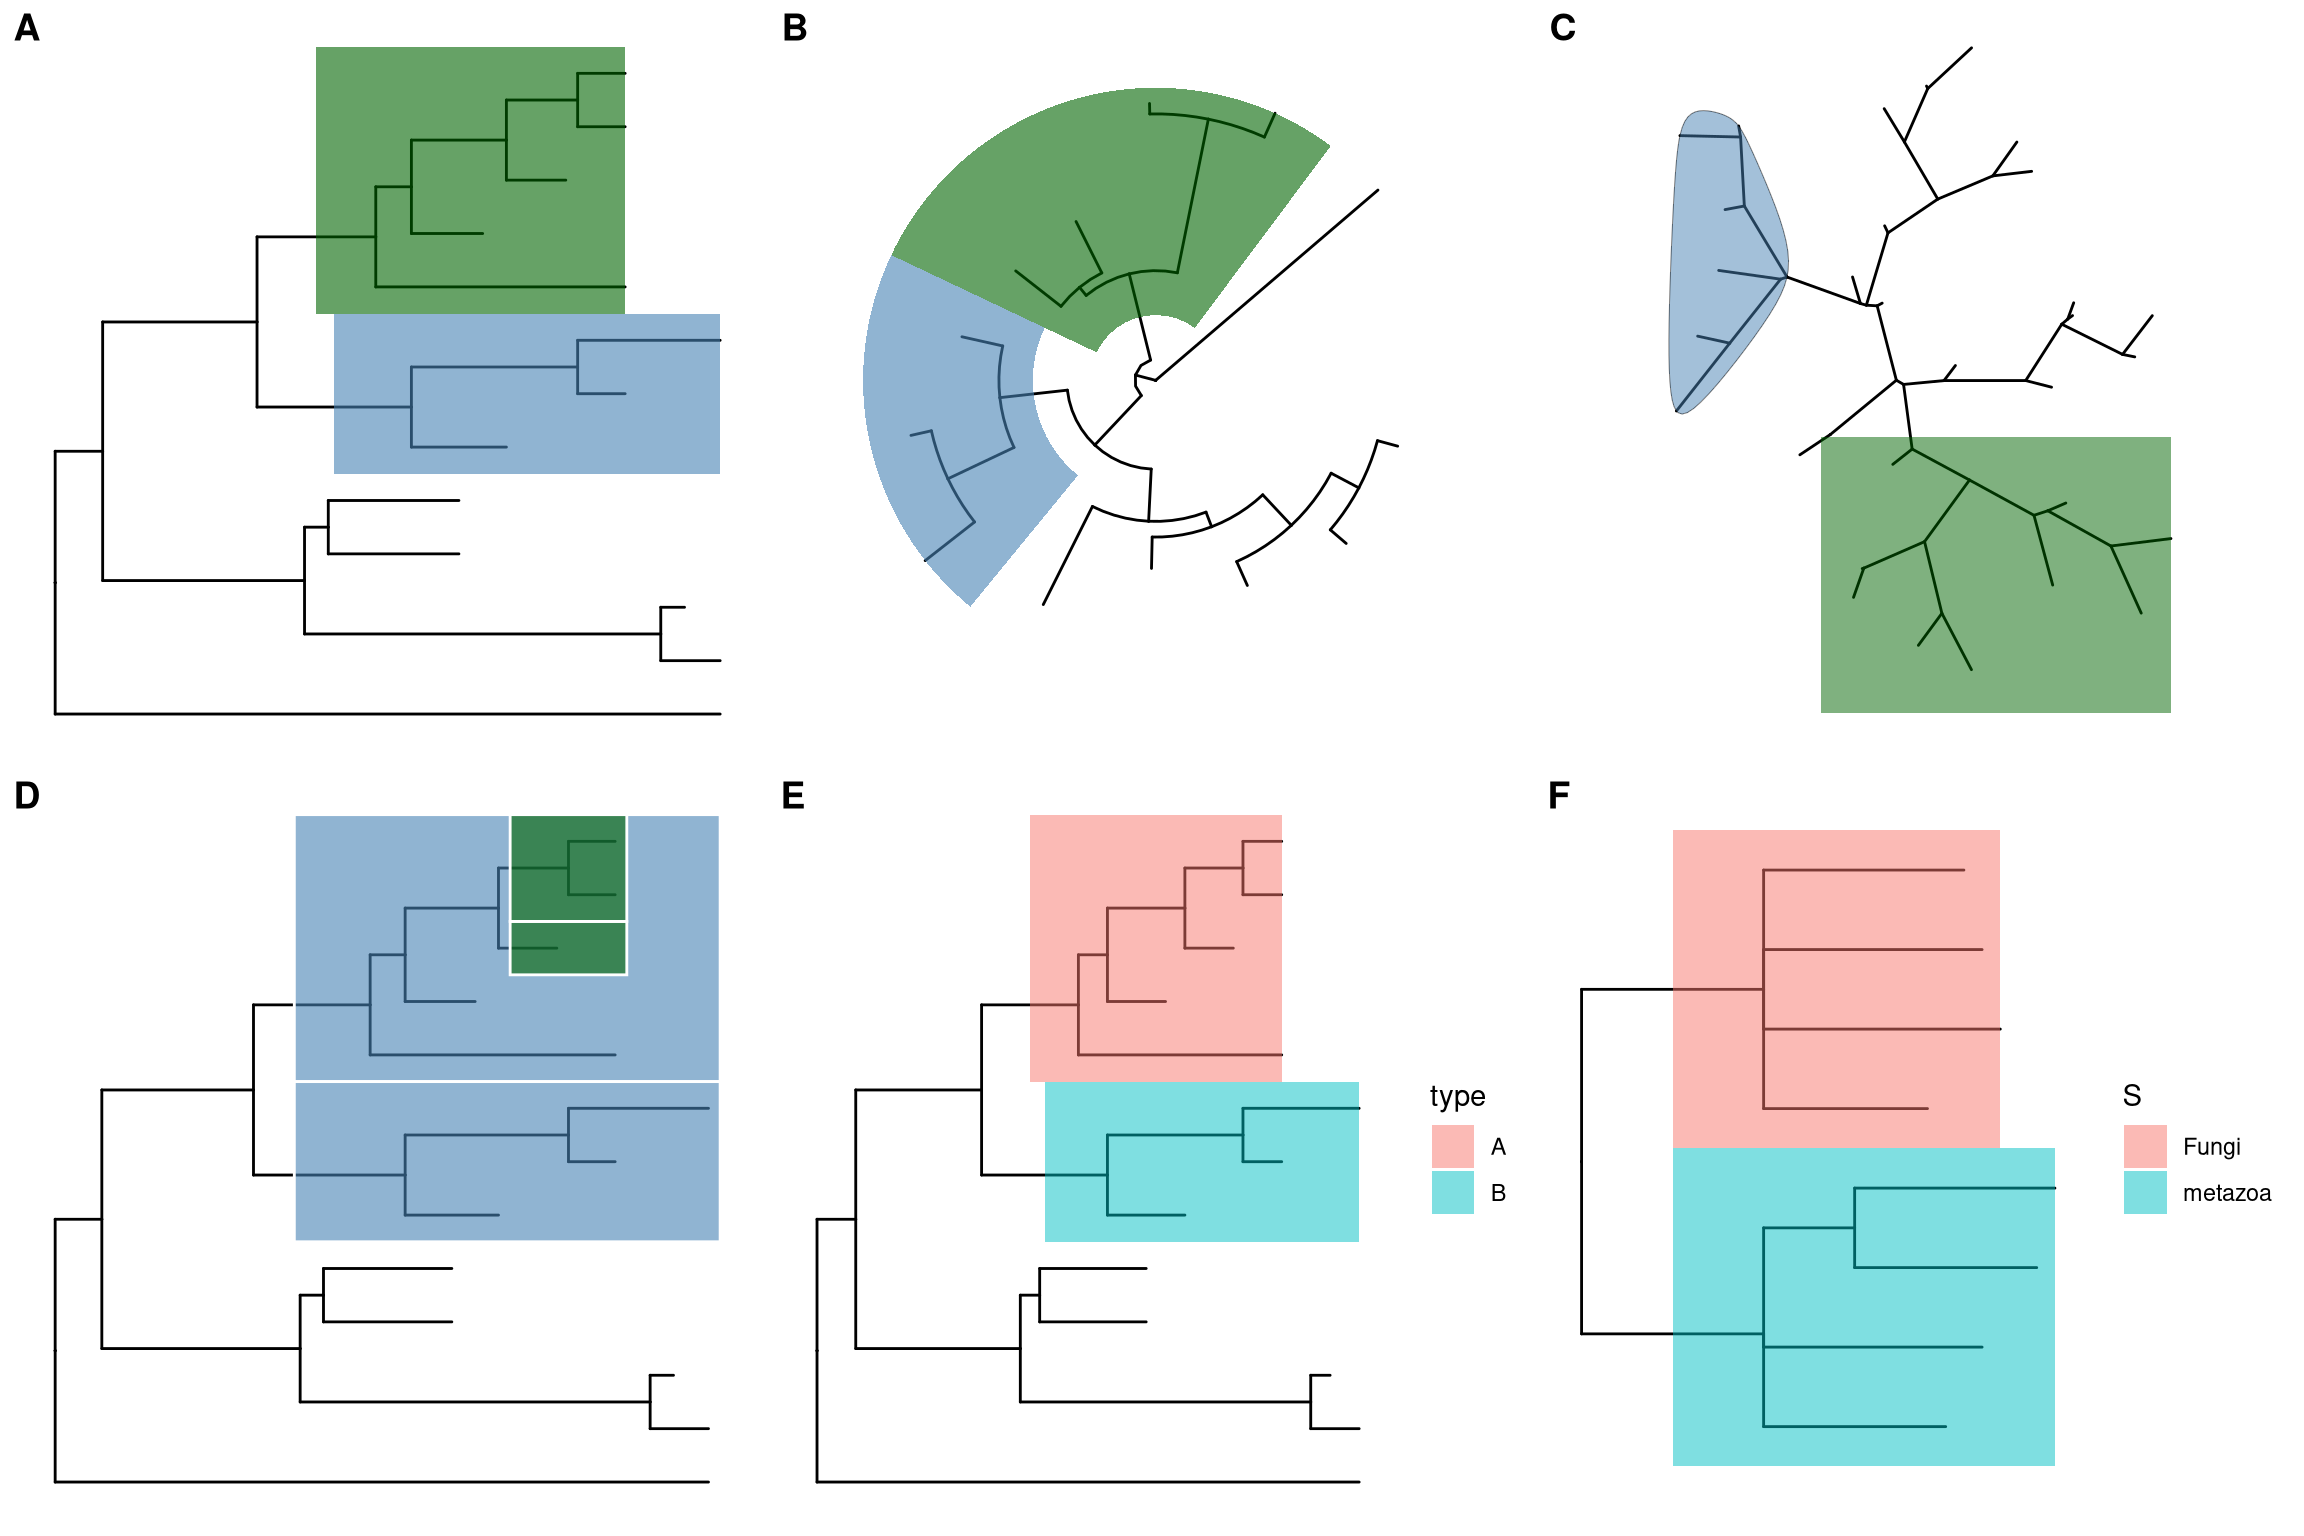
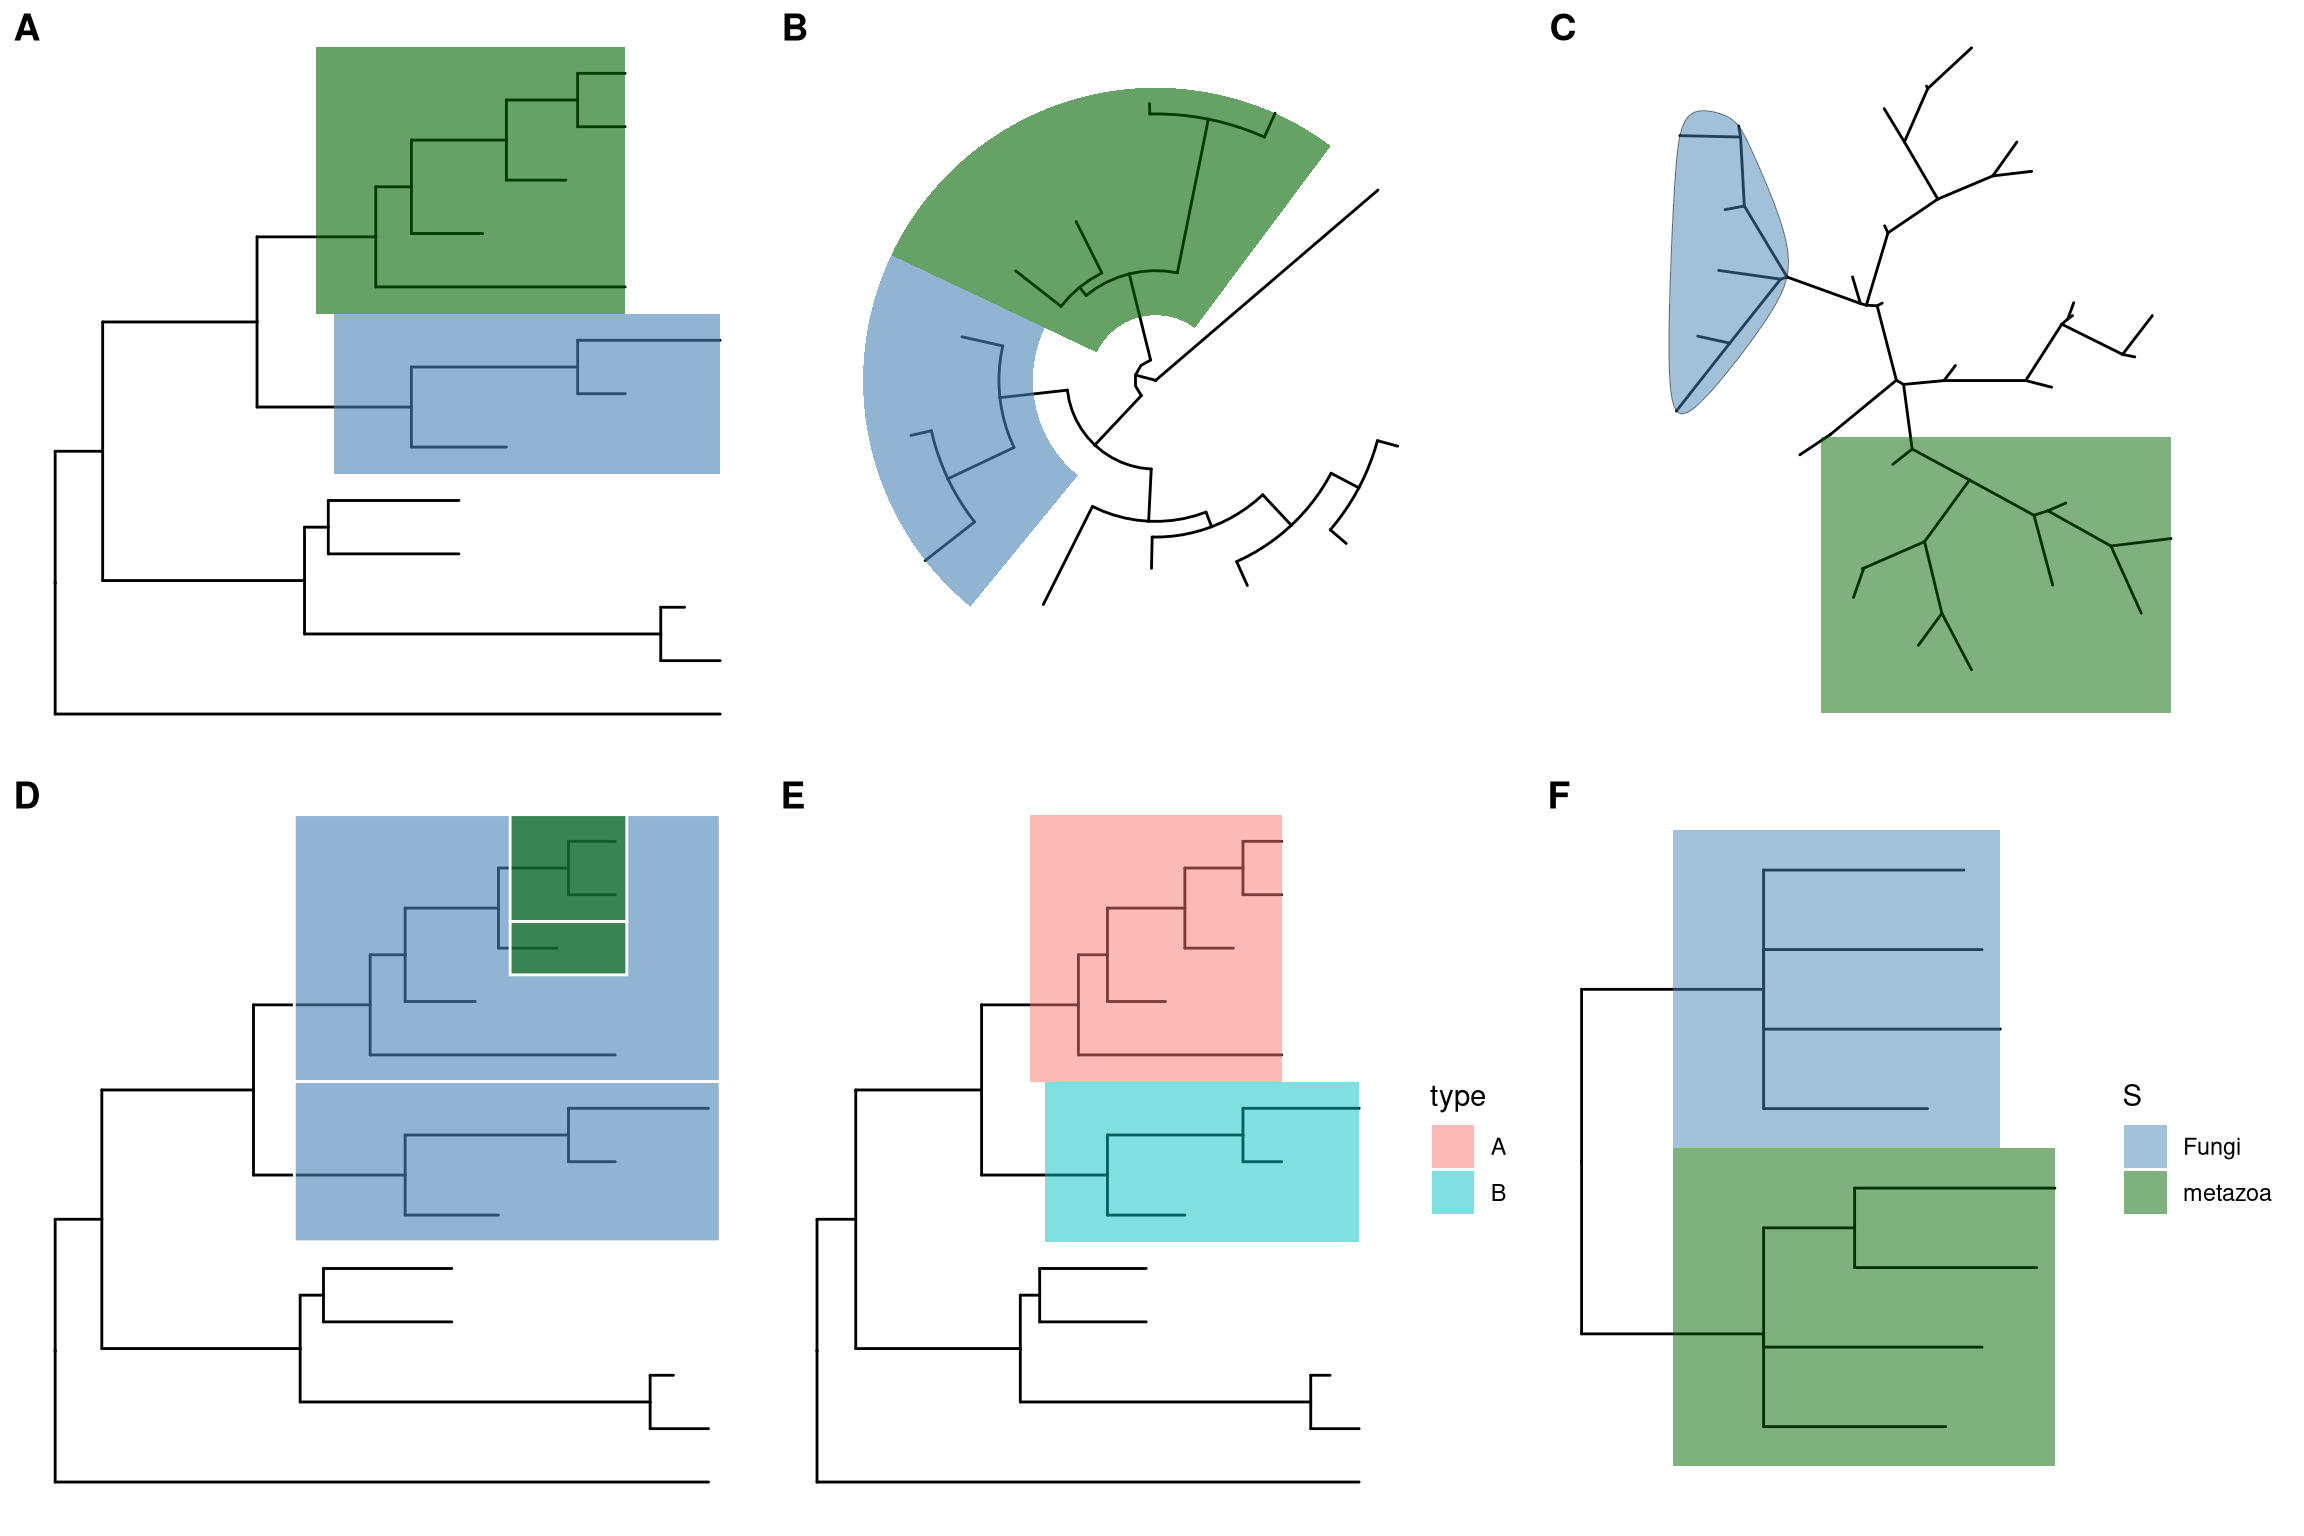
update hilight example

Changed region(s): [[0.7188, 0.5312, 0.9375, 0.9688]]

diff --git a/docs/chapter5.html b/docs/chapter5.html
@@ -450,7 +450,7 @@ plot associated data in specific panel (facet) and align the plot with the tree
 geom_hilight
 </td>
 <td style="text-align:left;">
-highlight a clade with rectangle
+highlight selected clade with rectanglar or round shape
 </td>
 </tr>
 <tr>
@@ -530,7 +530,7 @@ annotate associated taxa with bar and (optional) text label
 geom_taxalink
 </td>
 <td style="text-align:left;">
-associate two related taxa by linking them with a curve
+Linking related taxa
 </td>
 </tr>
 <tr>
@@ -651,13 +651,14 @@ which is designed to highlight neighboring subclades of a given internal node (F
 <span id="cb166-4"><a href="chapter5.html#cb166-4" aria-hidden="true"></a></span>
 <span id="cb166-5"><a href="chapter5.html#cb166-5" aria-hidden="true"></a><span class="co">## using data stored in tree object</span></span>
 <span id="cb166-6"><a href="chapter5.html#cb166-6" aria-hidden="true"></a>x &lt;-<span class="st"> </span><span class="kw">read.nhx</span>(<span class="kw">system.file</span>(<span class="st">&quot;extdata/NHX/ADH.nhx&quot;</span>, <span class="dt">package=</span><span class="st">&quot;treeio&quot;</span>))</span>
-<span id="cb166-7"><a href="chapter5.html#cb166-7" aria-hidden="true"></a><span class="kw">ggtree</span>(x) <span class="op">+</span><span class="st"> </span><span class="kw">geom_hilight</span>(<span class="dt">mapping=</span><span class="kw">aes</span>(<span class="dt">subset =</span> node <span class="op">%in%</span><span class="st"> </span><span class="kw">c</span>(<span class="dv">10</span>, <span class="dv">12</span>), <span class="dt">fill =</span> S))</span></code></pre></div>
+<span id="cb166-7"><a href="chapter5.html#cb166-7" aria-hidden="true"></a><span class="kw">ggtree</span>(x) <span class="op">+</span><span class="st"> </span><span class="kw">geom_hilight</span>(<span class="dt">mapping=</span><span class="kw">aes</span>(<span class="dt">subset =</span> node <span class="op">%in%</span><span class="st"> </span><span class="kw">c</span>(<span class="dv">10</span>, <span class="dv">12</span>), <span class="dt">fill =</span> S)) <span class="op">+</span></span>
+<span id="cb166-8"><a href="chapter5.html#cb166-8" aria-hidden="true"></a><span class="st">  </span><span class="kw">scale_fill_manual</span>(<span class="dt">values=</span><span class="kw">c</span>(<span class="st">&quot;steelblue&quot;</span>, <span class="st">&quot;darkgreen&quot;</span>))</span></code></pre></div>
 
 
 <div class="figure"><span id="fig:hilight"></span>
-<img src="treedata_files/figure-html/hilight-1.png" alt="Highlight selected clades. Rectangular layout (A), circular/fan (B) and unrooted layouts. Highlight neighboring subclades simultaneously (D)." width="1152" />
+<img src="treedata_files/figure-html/hilight-1.png" alt="Highlight selected clades. Rectangular layout (A), circular/fan (B) and unrooted layouts. Highlight neighboring subclades simultaneously (D). Highlight selected clades using associated data (E and F)." width="1152" />
 <p class="caption">
-Figure 5.4: <strong>Highlight selected clades.</strong> Rectangular layout (A), circular/fan (B) and unrooted layouts. Highlight neighboring subclades simultaneously (D).
+Figure 5.4: <strong>Highlight selected clades.</strong> Rectangular layout (A), circular/fan (B) and unrooted layouts. Highlight neighboring subclades simultaneously (D). Highlight selected clades using associated data (E and F).
 </p>
 </div>
 </div>
